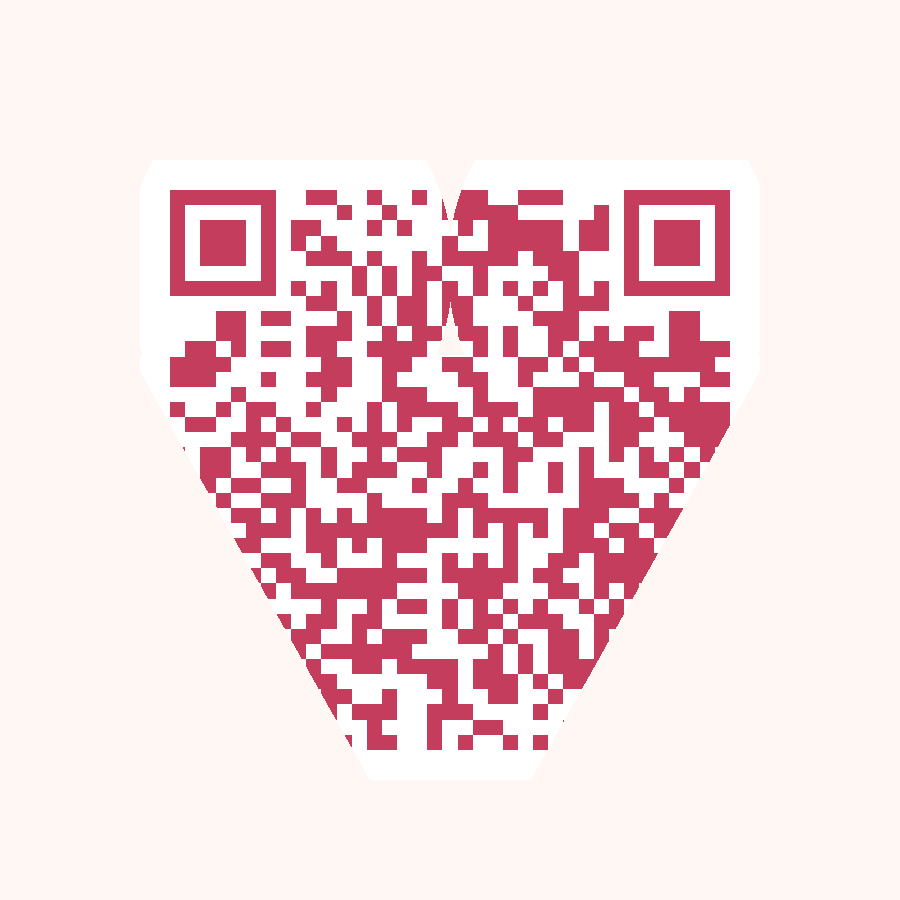
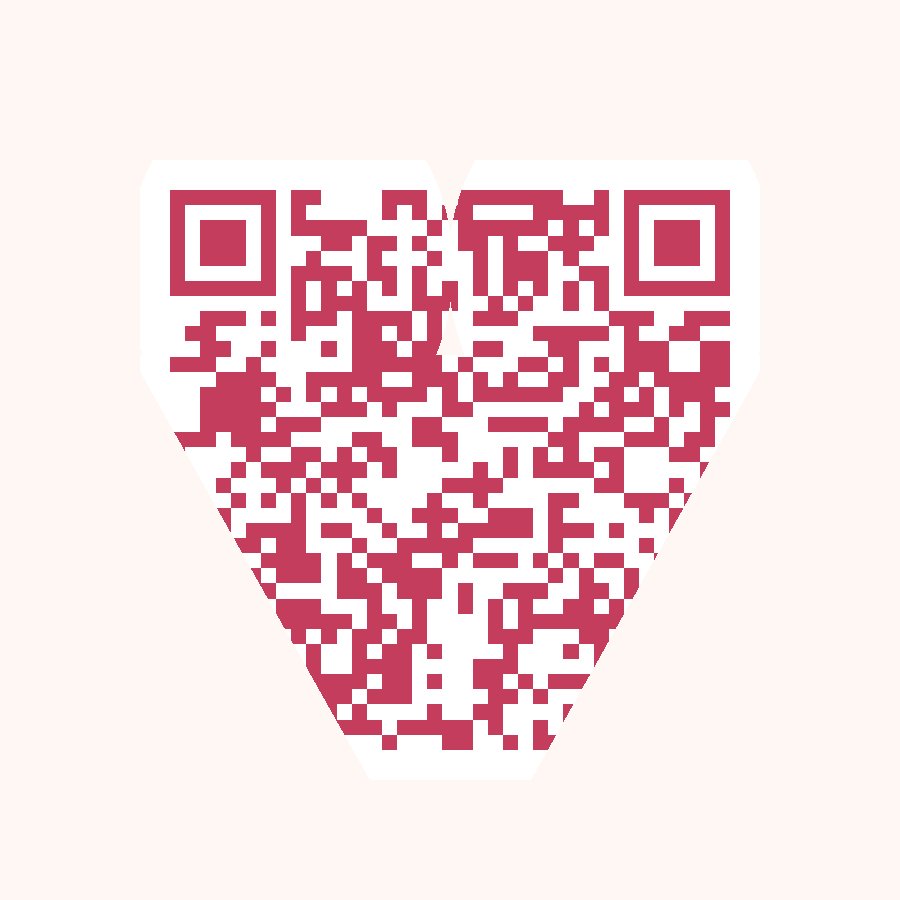
Point the site and QR at the GitHub Pages URL.

Changed region(s): [[0.1867, 0.1867, 0.8089, 0.84]]

diff --git a/config.js b/config.js
@@ -1,7 +1,7 @@
 window.LOVE = {
   herName: "ແຟນ",
   myName: "ຂ້ອຍ",
-  siteUrl: "https://example.github.io/love-gift/",
+  siteUrl: "https://iboy5070.github.io/love-gift/",
 
   youtubeUrl: "",
   audioSrc: "",
